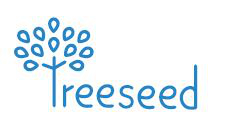
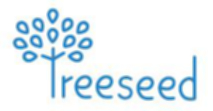
navegacion y agrego icono de salida del modal y de treeseed en el headermenu(falta ajustar tamaño)

Changed region(s): [[0.0563, 0.0541, 0.9296, 0.9189]]

diff --git a/Treeseed/src/main/webapp/resources/js/config.js b/Treeseed/src/main/webapp/resources/js/config.js
@@ -46,14 +46,7 @@ angular
 																		 * return
 																		 * AuthResolver.resolve(); } }
 																		 */
-							})
-							.state(
-									'signin',
-									{
-										url : '/signin',
-										templateUrl : 'layouts/components/page_signin.html',
-										controller : 'SigninFormController'
-									})									
+							})								
 							.state(
 									'treeSeed.index',
 									{
@@ -74,7 +67,14 @@ angular
 												url : 'donor/:donorId',
 												templateUrl : 'layouts/pages/donor.html',
 												controller: "getDonorProfileController",
-												params: {donorId: null}
+												params: {donorId: null},
+												data : {
+													authorizedRoles : [
+															USER_ROLES.donor,
+															USER_ROLES.guest,
+															USER_ROLES.nonprofit ]
+												
+												}
 											})
 									.state(
 											'treeSeed.nonProfit',
@@ -91,21 +91,13 @@ angular
 
 												}
 											})
-									.state(
-											'treeSeed.donate',
-											{
-												url : '../donate',
-												templateUrl : 'layouts/pages/donate.html'
-											// resolve:
-											// load(['js/controllers/chart.js'])
-											})
-									.state(
+									/*.state(
 											'treeSeed.searchTransReport',
 											{
 												url : 'str',
 												templateUrl : 'layouts/pages/transparencyReportSearch.html',
 												controller : "searchTransparecyReportController"
-											})
+											})*/
 									.state(
 											'treeSeed.createCampaing',
 											{
@@ -117,14 +109,14 @@ angular
 														USER_ROLES.nonprofit ]
 												}
 											})
-									.state(
+									/*.state(
 											'treeSeed.campaingViewer',
 											{
 												url : 'campaingViewer',
 												templateUrl : 'layouts/pages/campaingViewer.html'
 											// resolve:
 											// load(['js/controllers/chart.js'])
-											})
+											})*/
 									.state(
 											'treeSeed.nonProfitSearch',
 											{
@@ -133,21 +125,38 @@ angular
 												resolve : load([
 														'angularUtils.directives.dirPagination',
 														'resources/js/controllers/nonprofitController.js' ]),
-												controller : "nonProfitSearchController"
+												controller : "nonProfitSearchController",
+												data : {
+													authorizedRoles : [
+															USER_ROLES.donor,
+															USER_ROLES.guest,
+															USER_ROLES.nonprofit ]
+												
+												}
 											})
 									.state(
 											'treeSeed.registerNonProfit',
 											{
 												url : 'registerNonProfit',
 												templateUrl : 'layouts/pages/registerNonProfitProfile.html',
-												controller : "nonProfitRegistrationController"
+												controller : "nonProfitRegistrationController",
+												data : {
+													authorizedRoles : [
+															USER_ROLES.guest]
+												
+												}
 											})
 									.state(
 											'treeSeed.registerDonor',
 											{
 												url : 'registerDonor',
 												templateUrl : 'layouts/pages/registerDonor.html',
-												controller : "donorRegistrationController"
+												controller : "donorRegistrationController",
+												data : {
+													authorizedRoles : [
+															USER_ROLES.guest ]
+												
+												}
 											})
 									.state(
 											'treeSeed.selectUser',
@@ -166,7 +175,14 @@ angular
 												url : 'donorSearch',
 												templateUrl : 'layouts/pages/donorSearch.html',
 												resolve : load([ 'angularUtils.directives.dirPagination' ]),
-												controller : "donorSearchController"
+												controller : "donorSearchController",
+												data : {
+													authorizedRoles : [
+															USER_ROLES.donor,
+															USER_ROLES.guest,
+															USER_ROLES.nonprofit ]
+												
+												}
 											});
 							
 

diff --git a/Treeseed/src/main/webapp/WEB-INF/views/layouts/components/headerMenu.html b/Treeseed/src/main/webapp/WEB-INF/views/layouts/components/headerMenu.html
@@ -8,10 +8,10 @@
           <i class="glyphicon glyphicon-align-justify"></i>
         </button>
         <!-- brand -->
-        <a href="#/treeseed.org/index" class="navbar-brand text-lt">
+        <a href="#/treeseed.org/index"  class="navbar-brand">
          
-          <img src="resources/img/a0.jpg" alt="." class="hide">
-          <span class="hidden-folded m-l-xs">{{app.name}}</span>
+         <img src="resources/images/nombre.jpg"   alt="." >
+          
         </a>
         <!-- / brand -->
       </div>
@@ -93,7 +93,7 @@
           <li class="hidden-xs">
             <a ui-fullscreen></a>
           </li>
-          <li class="dropdown" dropdown ng-if="logged">
+          <li class="dropdown" dropdown ng-if="isAuthorized(userRoles.donor)||isAuthorized(userRoles.nonprofit)" ng-show="false">
             <a href class="dropdown-toggle" dropdown-toggle>
               <i class="icon-bell fa-fw"></i>
               <span class="visible-xs-inline">Notifications</span>
@@ -128,10 +128,10 @@
                 </a>
               </li>
               <li>
-                <a ng-click='navigateDonor()' translate="MENU-HEADER.PROFILE">Profil</a>
+                <a ng-click='goProfile()' translate="MENU-HEADER.PROFILE">Profil</a>
               </li>
               <li>
-                <a ui-sref="app.docs" translate="MENU-HEADER.HELP">
+                <a  translate="MENU-HEADER.HELP">
                   help
                 </a>
               </li>

diff --git a/Treeseed/src/main/webapp/resources/js/controllers/generalControllers.js b/Treeseed/src/main/webapp/resources/js/controllers/generalControllers.js
@@ -32,6 +32,14 @@ treeSeedAppControllers.controller('headerMenuCtrl', function($state, $location, 
 	$sharedData.getUserCountry();
 	$scope.country = "";
 	
+	$scope.goProfile=function(){
+		if (Session.userRole == $scope.userRoles.nonprofit) {
+			$state.go('treeSeed.nonProfit', {nonProfitId: Session.userId});
+		} else if (Session.userRole == $scope.userRoles.donor) {
+			$state.go('treeSeed.donor', {donorId: Session.userId});
+		}
+	}
+	
 	$scope.temps = [];
 	
 	$scope.generalSearch = function(val) {
@@ -95,6 +103,8 @@ treeSeedAppControllers.controller('headerMenuCtrl', function($state, $location, 
 	};
 
 	$scope.init();
+	
+	
 
 });// end header controller
 
@@ -144,6 +154,15 @@ treeSeedAppControllers.controller('navigateController', function($state,
 		$state.go('treeSeed.campaingViewer');
 	}
 });
+
+treeSeedAppControllers.controller('sideMenuNonprofitController', function($state, $scope,Session) {
+	$scope.goProfile=function(){
+		
+			$state.go('treeSeed.nonProfit', {nonProfitId: Session.userId});
+	}
+
+});
+
 
 treeSeedAppControllers.controller('HeaderCtrl', [
 		'$scope',

diff --git a/Treeseed/src/main/webapp/WEB-INF/views/layouts/components/nGOMenu.html b/Treeseed/src/main/webapp/WEB-INF/views/layouts/components/nGOMenu.html
@@ -1,4 +1,4 @@
-<div class="aside-wrap">
+<div class="aside-wrap" ng-controller="sideMenuNonprofitController">
 
   <div class="navi-wrap">
 
@@ -8,13 +8,13 @@
     <span translate="LEFT-MENU.NAVIGATION">Navigation</span>
   </li>
   <li>
-    <a ui-sref="app.dashboard-v3" md-ink-ripple class="auto">
+    <a ng-click="goProfile()" md-ink-ripple class="auto">
       <i class="glyphicon glyphicon-user icon"></i>
       <span class="font-bold" translate="LEFT-MENU.PROFILE">PROFILE</span>
     </a>
   </li>
   <li ui-sref-active="active">
-    <a ui-sref="app.calendar" md-ink-ripple>
+    <a ui-sref="treeSeed.createCampaing" md-ink-ripple>
       <i class="glyphicon  glyphicon-plus-sign icon"></i>
       <span class="font-bold" translate="LEFT-MENU.CREATE-CAMPAIGN">CREATE-CAMPAIGN</span>
     </a>

diff --git a/Treeseed/src/main/webapp/WEB-INF/views/layouts/components/page_login.html b/Treeseed/src/main/webapp/WEB-INF/views/layouts/components/page_login.html
@@ -1,4 +1,5 @@
 <div class="w-auto-xs" >
+          <a ui-toggle-class="show" ng-click="close()" class="glyphicon glyphicon-remove pull-right"></a>
 	<div>
 		<div class="wrapper text-center">
 			<img src="resources/images/Captura.jpg">
@@ -81,7 +82,7 @@
 				<p class="text-center">
 					<small translate="LOGIN.DO-YOU"></small>
 				</p>
-				<a class="btn btn-lg btn-default btn-block" translate="LOGIN.CREATE"></a>
+				<a class="btn btn-lg btn-default btn-block" ui-sref="treeSeed.selectUser" ng-click="close()" translate="LOGIN.CREATE"></a>
 			</div>
 			<div class="col-sm-4"></div>
 		</div>

diff --git a/Treeseed/src/main/webapp/WEB-INF/views/layouts/pages/index.html b/Treeseed/src/main/webapp/WEB-INF/views/layouts/pages/index.html
@@ -117,9 +117,9 @@
 	  			
 	  			<br>
 	  			
-	  		<button class="btn btn-info  btn-addon  btn-lg  let-it-grow-button" >
+	  		<button class="btn btn-info  btn-addon  btn-lg  let-it-grow-button"  ng-if="isAuthorized(userRoles.guest)">
   			 	<i class="fa fa-lemon-o let-it-grow-icon"></i>
-  			 	<span translate="LANDING.CREATE-ACCOUNT" ui-sref="treeSeed.registerNonProfile">CREATE-ACCOUNT</span>
+  			 	<span translate="LANDING.CREATE-ACCOUNT" ui-sref="treeSeed.selectUser">CREATE-ACCOUNT</span>
 			 </button>
 	  		</div>
 	  </div> 

diff --git a/Treeseed/src/main/webapp/resources/js/controllers/loginController.js b/Treeseed/src/main/webapp/resources/js/controllers/loginController.js
@@ -31,6 +31,10 @@ treeSeedAppLoginControllers.controller('loginController', function($scope, $stat
 		      
 		    });
 		  };
+		  
+		  $scope.close=function(){
+			  $modalInstance.close();
+		  }
 })
 ;
 
